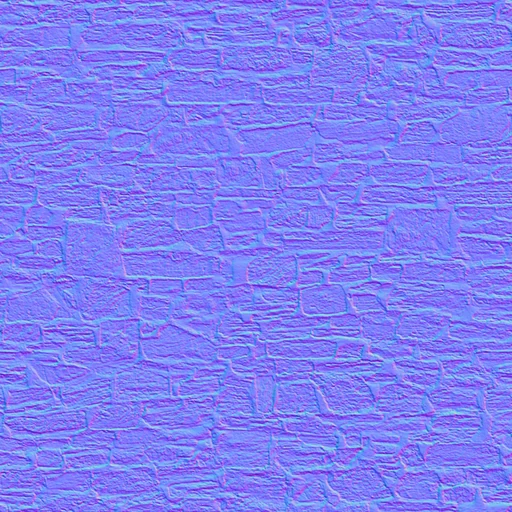
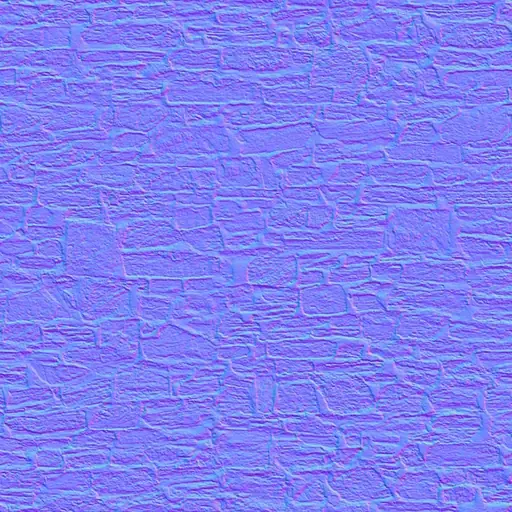
Home page: lighter on phones, bigger tap areas, shorter phone page
- Phones fetch the 600 px age pictures (about 1.5 MB less)
- Mountain, stone and rock textures re-baked smaller (about 650 KB less, same look)
- 3D dragon skipped only on 1 GB phones (plus data saver and reduce motion as before)
- 44 px tap areas on small controls on touch screens, look unchanged
- Phone footer lists fold up; further reading shows four plus "Show all";
  timeline age chips are one swipe row
- Hidden context for generic links; width/height on every image

Claude-Session: https://claude.ai/code/session_01HQpyg8F5StT61j2kcgj5ay

diff --git a/src/v6.css b/src/v6.css
@@ -790,3 +790,43 @@ a.wl-go:focus-visible { outline: none }
 :is(.behind, .mab-tale, .pk-person, .firsts-banner, .place-card).wl-card { transition: box-shadow .25s }
 :is(.behind, .mab-tale, .pk-person, .firsts-banner, .place-card).wl-card:hover { box-shadow: 0 0 0 1px color-mix(in srgb, var(--c, var(--gold)) 55%, transparent) }
 @media print { a.wl, a.wl-go::after { display: none } .wl-card { cursor: auto } }
+
+/* ---------- Bigger touch targets on touch screens (November 2026) ----------
+   Small controls get an invisible tap area of at least 44 x 44 px (an empty ::before centred on them), so they look the same
+   but are easy to hit with a thumb. The EN/CY pair only grows outwards, so neither steals taps from the other. */
+@media (pointer: coarse) {
+  :is(.lang a, .menu-btn, .search-btn, .journey-chip, .chip, .hear, .wotd-nav button, #dec-samples button, .marquee a, .n-all, .wotd-more, .site-foot .fcol summary) { position: relative }
+  :is(.menu-btn, .search-btn, .journey-chip, .chip, .hear, .wotd-nav button, #dec-samples button, .marquee a, .n-all, .wotd-more)::before { content: ""; position: absolute; left: 50%; top: 50%; width: max(100%, 44px); height: max(100%, 44px); transform: translate(-50%, -50%) }
+  .lang a::before { content: ""; position: absolute; top: 50%; width: 44px; height: 44px; transform: translateY(-50%) }
+  .lang a:first-child::before { right: 0 }
+  .lang a:last-child::before { left: 0 }
+  /* scrolling chip rows would clip the taller tap areas, so they get room above and below (taken back with a negative margin) */
+  #tl-teaser, #people .chips { padding-block: 7px; margin-block: -7px }
+}
+
+/* ---------- A shorter home page on phones (November 2026) ---------- */
+@media (max-width: 700px) {
+  /* the timeline's nine age chips: one row to swipe, like the people filters, instead of ten stacked rows */
+  #tl-teaser { flex-wrap: nowrap; overflow-x: auto; scrollbar-width: none; max-width: 100%; -webkit-mask-image: linear-gradient(90deg, #000 88%, transparent); mask-image: linear-gradient(90deg, #000 88%, transparent) }
+  #tl-teaser::-webkit-scrollbar { display: none }
+  #tl-teaser .chip { flex: none }
+  /* further reading: the first four books and four websites, and a button for the rest (site.js adds it) */
+  html.js .clip-list:not(.open) > li:nth-child(n+5) { display: none }
+}
+.clip-more { display: none }
+@media (max-width: 700px) { html.js .clip-more { display: inline-flex; margin-top: .8rem } html.js .clip-list.open + .clip-more { display: none } }
+
+/* the footer lists are <details>: always open on wide screens; on phones site.js closes them into four tappable headings */
+.site-foot .fcol summary { list-style: none; cursor: default }
+.site-foot .fcol summary::-webkit-details-marker { display: none }
+@media (min-width: 701px) { .site-foot .fcol summary { pointer-events: none } }
+@media (max-width: 700px) {
+  .foot-cols { grid-template-columns: 1fr; gap: 0 }
+  .site-foot .fcol { border-top: 1px solid var(--line) }
+  .site-foot .fcol:last-child { border-bottom: 1px solid var(--line) }
+  .site-foot .fcol summary { cursor: pointer; display: flex; justify-content: space-between; align-items: center; min-height: 48px; color: var(--ink) }
+  .site-foot .fcol summary::after { content: "+"; font: 400 1.3rem/1 var(--f-body); color: var(--muted); transition: transform .2s }
+  .site-foot .fcol[open] summary::after { transform: rotate(45deg) }
+  .site-foot .fcol ul { margin: 0 0 1rem; grid-template-columns: 1fr 1fr; gap: .2rem 1rem }
+  .site-foot .fcol ul a { display: block; padding-block: .45rem }
+}

diff --git a/src/app.js b/src/app.js
@@ -324,7 +324,10 @@
     /* load the lifelike 3D dragon where the device can draw it; otherwise the flag dragon stays */
     try {
       var tc = document.createElement("canvas"), gl3 = window.WebGLRenderingContext && (tc.getContext("webgl2") || tc.getContext("webgl"));
-      if (gl3 && !(navigator.connection && navigator.connection.saveData)) {
+      /* skipped on data saver and on very old phones with 1 GB of memory or less (Ifan, 13 Nov 2026: keep it on every modern phone).
+         deviceMemory is only reported by Chrome-based browsers; Safari never reports it, so iPhones always get the dragon. */
+      var lowMem = navigator.deviceMemory && navigator.deviceMemory <= 1;
+      if (gl3 && !lowMem && !(navigator.connection && navigator.connection.saveData)) {
         window.HCD3_WANT = window.HCL3_WANT = 1;
         var c3 = document.createElement("canvas"); c3.id = "sky3d"; c3.setAttribute("aria-hidden", "true"); cv.after(c3);
         var cl = document.createElement("canvas"); cl.id = "land3d"; cl.setAttribute("aria-hidden", "true"); cv.after(cl);
@@ -769,7 +772,7 @@
     var more = $("#people-more"); more.hidden = P_PAGE || pEra !== "all" || pField !== "all"; more.textContent = pAll ? T("Show fewer", "Dangos llai") : T("Show all " + PEOPLE.length + " people", "Dangos pob un o’r " + PEOPLE.length);
     $("#people-grid").innerHTML = list.map(function (p) {
       var name = T(p[3], p[4]), other = lang === "en" ? p[4] : p[3], link = "person-" + p[0] + ".html", ph = D.PPH[p[0]];
-      return '<article class="plaque wl-card" data-era="' + p[1] + '"><div class="top-row"><span class="ava" aria-hidden="true">' + initials(p[3]) + (ph ? '<img src="' + ph + '" alt="" loading="lazy" referrerpolicy="no-referrer" onerror="this.remove()">' : "") + '</span><div><span class="dates">' + esc(p[2]) + "</span><h3>" + esc(name) + '</h3></div></div><span class="epi">' + esc(T(p[5], p[6])) + (other !== name ? " · " + esc(other) : "") + "</span>" + ((D.PFIRST || {})[p[0]] ? '<span class="first-tag">★ ' + esc(T(D.PFIRST[p[0]][1], D.PFIRST[p[0]][2])) + "</span>" : "") + "<p>" + esc(T(p[7], p[8])) + '</p><a class="wl" href="' + link + '">' + esc(name) + "</a></article>";
+      return '<article class="plaque wl-card" data-era="' + p[1] + '"><div class="top-row"><span class="ava" aria-hidden="true">' + initials(p[3]) + (ph ? '<img src="' + ph + '" alt="" width="96" height="96" loading="lazy" referrerpolicy="no-referrer" onerror="this.remove()">' : "") + '</span><div><span class="dates">' + esc(p[2]) + "</span><h3>" + esc(name) + '</h3></div></div><span class="epi">' + esc(T(p[5], p[6])) + (other !== name ? " · " + esc(other) : "") + "</span>" + ((D.PFIRST || {})[p[0]] ? '<span class="first-tag">★ ' + esc(T(D.PFIRST[p[0]][1], D.PFIRST[p[0]][2])) + "</span>" : "") + "<p>" + esc(T(p[7], p[8])) + '</p><a class="wl" href="' + link + '">' + esc(name) + "</a></article>";
     }).join("");
   }
   $("#people-more").onclick = function () { pAll = !pAll; renderPeople(); if (!pAll) goTo($("#people")); };

diff --git a/src/body.html b/src/body.html
@@ -44,7 +44,7 @@
       <div class="b-fact rv">
         <p class="eyebrow" data-cy="Wyddech chi?">Did you know?</p>
         <p class="fact" id="fact" aria-live="polite">__FACT__</p>
-        <p class="fact-actions"><a class="chip solid" id="fact-more" href="__FACTHREF__"><span data-cy="Darllen yr hanes llawn">Read the full story</span> →</a>
+        <p class="fact-actions"><a class="chip solid" id="fact-more" href="__FACTHREF__" aria-describedby="fact"><span data-cy="Darllen yr hanes llawn">Read the full story</span> →</a>
         <button type="button" class="chip" id="fact-next"><span data-cy="Un arall">Another</span> ↻</button></p>
       </div>
     </div>
@@ -161,8 +161,8 @@
       <p data-cy="Mae pob digwyddiad, lle a pherson ar y wefan hon yn cysylltu â ffynhonnell. Dyma’r llyfrau a’r casgliadau gorau i fynd ymhellach.">Every event, place and person on this site links to a source. These are the best books and collections for going further.</p>
     </div>
     <div class="reading">
-      <div><p class="eyebrow" style="margin-bottom:.5rem" data-cy="Llyfrau">Books</p><ul id="read-books">__BOOKS__</ul></div>
-      <div><p class="eyebrow" style="margin-bottom:.5rem" data-cy="Ar-lein">Online</p><ul id="read-online">__ONLINE__</ul></div>
+      <div><p class="eyebrow" style="margin-bottom:.5rem" data-cy="Llyfrau">Books</p><ul id="read-books" class="clip-list">__BOOKS__</ul></div>
+      <div><p class="eyebrow" style="margin-bottom:.5rem" data-cy="Ar-lein">Online</p><ul id="read-online" class="clip-list">__ONLINE__</ul></div>
     </div>
     <p style="margin-top:1.5rem"><a class="btn solid" href="books-and-authors.html" data-cy="Pob un o’r llyfrau a’u hawduron, fesul cyfnod →">Every book and its author, period by period →</a></p>
     <p class="note-box" style="margin-top:2rem" data-cy="Mae’r dolenni i ddigwyddiadau unigol yn mynd i Wicipedia, sydd yn ei dro yn rhestru ffynonellau academaidd. Dyddiadau bras yw’r rhai a nodir ‘c.’ (circa). Map yn seiliedig ar ffiniau awdurdodau lleol; mae’r map teyrnasoedd yn fras.">Links on individual events go to Wikipedia, which in turn lists academic sources. Dates marked c. (circa) are approximate. The map is drawn from local authority boundaries, and the kingdoms map is an approximation.</p>

diff --git a/src/static/site.js b/src/static/site.js
@@ -329,3 +329,21 @@
     });
   });
 })();
+
+/* ---------- shorter pages on phones (November 2026) ----------
+   The footer lists are <details>, open in the HTML; on phones they start closed, so the footer is four headings to tap.
+   Long lists marked .clip-list show their first four items on phones, with a button for the rest (CSS in src/v6.css). */
+(function () {
+  var d = document, phone = window.matchMedia && matchMedia("(max-width: 700px)").matches;
+  Array.prototype.forEach.call(d.querySelectorAll(".site-foot details.fcol"), function (el) {
+    if (phone) el.open = false;
+    else el.addEventListener("toggle", function () { if (!el.open && !matchMedia("(max-width: 700px)").matches) el.open = true; });
+  });
+  Array.prototype.forEach.call(d.querySelectorAll(".clip-list"), function (ul) {
+    var n = ul.children.length; if (n <= 4) return;
+    var b = d.createElement("button"); b.type = "button"; b.className = "btn clip-more";
+    b.textContent = d.documentElement.classList.contains("cy") ? "Dangos y cyfan (" + n + ")" : "Show all " + n;
+    b.addEventListener("click", function () { ul.classList.add("open"); var f = ul.children[4] && ul.children[4].querySelector("a"); if (f) f.focus({ preventScroll: true }); });
+    ul.after(b);
+  });
+})();

diff --git a/src/welsh.js b/src/welsh.js
@@ -81,7 +81,7 @@
   }
   function card(back) {
     var x = dayOf(back), w = W[x.i];
-    var more = w[8] ? '<a class="wotd-more" href="' + esc(w[8]) + '">' + bi("Read the history", "Darllen yr hanes") + " →</a>" : "";
+    var more = w[8] ? '<a class="wotd-more" href="' + esc(w[8]) + '">' + bi("Read the history<span class=\"vh\"> behind the word " + esc(w[1]) + "</span>", "Darllen yr hanes<span class=\"vh\"> y tu ôl i’r gair " + esc(w[1]) + "</span>") + " →</a>" : "";
     return '<div class="wotd-top"><p class="eyebrow"><b>' + bi("Word of the day", "Gair y dydd") + "</b> · " + dateLabel(x.d, back) + "</p>"
       + '<div class="wotd-nav"><button type="button" data-wotd-go="1"' + (back >= 6 ? " disabled" : "") + ' aria-label="' + esc("Previous day / Diwrnod blaenorol") + '">‹</button>'
       + '<button type="button" data-wotd-go="-1"' + (back <= 0 ? " disabled" : "") + ' aria-label="' + esc("Next day / Diwrnod nesaf") + '">›</button></div></div>'

diff --git a/build.py b/build.py
@@ -415,9 +415,11 @@ COPYRIGHT_OWNER_CY = "Hanes Cymru"
 
 def footer():
     def col(title_en, title_cy, links):
-        return f'<div><p class="eyebrow">{bi(title_en, title_cy)}</p><ul>' + "".join(f'<li><a href="{h}">{bi(a, b)}</a></li>' for h, a, b in links) + "</ul></div>"
-    eras_col = (f'<div><p class="eyebrow">{bi("The nine ages", "Y naw oes")}</p><ul>' + "".join(
-        f'<li><a href="era-{x["id"]}.html">{bi(x["en"], x["cy"])} <span class="m-dates">{bi(x["spanEn"], x["spanCy"])}</span></a></li>' for x in D.ERAS) + "</ul></div>")
+        return f'<details class="fcol" open><summary class="eyebrow">{bi(title_en, title_cy)}</summary><ul>' + "".join(f'<li><a href="{h}">{bi(a, b)}</a></li>' for h, a, b in links) + "</ul></details>"
+    # Each list is a <details>, open in the HTML so every link shows on wide screens and without JavaScript.
+    # On phones site.js closes them, so the footer is four tappable headings instead of 1,600 px of links.
+    eras_col = (f'<details class="fcol" open><summary class="eyebrow">{bi("The nine ages", "Y naw oes")}</summary><ul>' + "".join(
+        f'<li><a href="era-{x["id"]}.html">{bi(x["en"], x["cy"])} <span class="m-dates">{bi(x["spanEn"], x["spanCy"])}</span></a></li>' for x in D.ERAS) + "</ul></details>")
     explore = [("timeline.html", "Timeline", "Llinell amser"), ("map.html", "Map of Wales", "Map Cymru"), ("people.html", "People", "Pobl"), ("firsts.html", "Welsh world firsts", "Cymru oedd y cyntaf"), ("kings.html", "Kings and princes", "Brenhinoedd a thywysogion"), ("family-trees.html", "Royal family trees", "Coed teulu brenhinol"), ("saints.html", "Saints of Wales", "Seintiau Cymru"), ("castles.html", "Castles of Wales", "Cestyll Cymru"), ("trails.html", "Themed trails", "Llwybrau thema"),
                ("gallery.html", "Photo gallery", "Oriel luniau"), ("onthisday.html", "On this day", "Ar y dydd hwn"), ("index.html#language", "The Welsh language", "Yr iaith Gymraeg"), ("welsh.html", "Learn Welsh", "Dysgu Cymraeg")]
     read = [("whatsnew.html", "What’s new", "Beth sy’n newydd"), ("stories.html", "Long reads", "Erthyglau"), ("legends.html", "Legends", "Chwedlau"), ("mabinogion.html", "The Mabinogion", "Y Mabinogion"), ("laws.html", "The Laws of Hywel Dda", "Cyfreithiau Hywel Dda"), ("literature.html", "Welsh literature", "Llenyddiaeth Gymraeg"), ("books.html", "The great books of Wales", "Llyfrau mawr Cymru"), ("triads.html", "The Welsh Triads", "Trioedd Ynys Prydain"), ("symbols.html", "Symbols and traditions", "Symbolau a thraddodiadau"),
@@ -2816,7 +2818,7 @@ def family_trees_page():
                 main, era="kings", ld=ld, og_type="website", active="kings.html", track="kings:trees", extra=FT_JS)
 
 # ---------- Welsh word of the day and beginner's phrases (src/cymraeg.py, src/welsh.js) ----------
-WELSH_JS_VER = 1
+WELSH_JS_VER = 2  # raise whenever src/welsh.js changes, so browsers fetch the new copy
 AUDIO_DIR = os.path.join(SRC, "static", "audio")
 AUDIO_FILES = sorted(f[:-4] for f in os.listdir(AUDIO_DIR) if f.endswith(".mp3")) if os.path.isdir(AUDIO_DIR) else []
 LL_CREDITS = json.loads(read("audio_credits.json")) if os.path.exists(os.path.join(SRC, "audio_credits.json")) else {}
@@ -3241,7 +3243,7 @@ def ssr_person(p):
     ph = DATA["PPH"].get(slug)
     first = P2.FIRSTS.get(slug)
     return (f'<article class="plaque wl-card" data-era="{p[1]}"><div class="top-row"><span class="ava" aria-hidden="true">{e(_initials(p[3]))}'
-            + (f'<img src="{e(ph)}" alt="" loading="lazy" referrerpolicy="no-referrer" onerror="this.remove()">' if ph else "")
+            + (f'<img src="{e(ph)}" alt="" width="96" height="96" loading="lazy" referrerpolicy="no-referrer" onerror="this.remove()">' if ph else "")
             + f'</span><div><span class="dates">{bi(p[2], date_cy(p[2]))}</span><h3>{bi(p[3], p[4])}</h3></div></div>'
             f'<span class="epi">{bi(p[5], p[6])}{(" · " + e(other)) if other else ""}</span>'
             + (f'<span class="first-tag">★ {bi(first[1], first[2])}</span>' if first else "")
@@ -3449,8 +3451,12 @@ ERA_Q = {
     "today": ("What has Wales done with a parliament of its own?", "Beth y mae Cymru wedi’i wneud â’i senedd ei hun?"),
 }
 assert set(ERA_Q) == {x["id"] for x in D.ERAS}, "every age needs a question in ERA_Q"
+# On phones the nine age cards are thin strips with the picture behind a dark veil, so the 600 px picture is plenty.
+# "200px" makes even a 3x phone screen (200 x 3 = 600) fetch it;
+# without it phones fetched the 1400 px pictures, about 1.5 MB for the nine. Wide screens still use 40vw.
+POSTER_SIZES = "(max-width: 700px) 200px, 40vw"
 AGES_HTML = "".join(
-    f'<a class="poster" href="era-{x["id"]}.html" data-era="{x["id"]}">{PX.card_img(f"era-{x['id']}.html") or A.scene(ERA_ART[x["id"]], COL[x["id"]])}<span class="shade"></span><span class="rn"><span class="vh">{bi("Age", "Oes")} </span>{ROMAN[i]}<span class="vh">: </span></span>'
+    f'<a class="poster" href="era-{x["id"]}.html" data-era="{x["id"]}">{PX.card_img(f"era-{x['id']}.html", sizes=POSTER_SIZES) or A.scene(ERA_ART[x["id"]], COL[x["id"]])}<span class="shade"></span><span class="rn"><span class="vh">{bi("Age", "Oes")} </span>{ROMAN[i]}<span class="vh">: </span></span>'
     f'<span class="txt"><span class="span">{bi(x["spanEn"], x["spanCy"])}</span><h3>{bi(x["en"], x["cy"])}</h3><span class="q">{bi(*ERA_Q[x["id"]])}</span><p>{bi(x["blurbEn"], x["blurbCy"])}</p></span></a>'
     for i, x in enumerate(D.ERAS))
 MARQ = [("Castles", "Cestyll", "story-castles.html"), ("Poets", "Beirdd", "person-dafydd-ap-gwilym.html"), ("Saints", "Seintiau", "saints.html"),

diff --git a/tools/bake_eryri.py b/tools/bake_eryri.py
@@ -71,7 +71,7 @@ det -= gul * (5 + 24 * ss(slope, 0.12, 0.5))
 det = np.where(water, base, det)
 
 gy, gx = np.gradient(det * VE, cell); l = 1 / np.sqrt(gx * gx + gy * gy + 1); nx, ny, nz = -gx * l, l, -gy * l
-Image.fromarray((np.stack([nx * .5 + .5, ny * .5 + .5, nz * .5 + .5], -1) * 255).clip(0, 255).astype(np.uint8)).save(out + '/eryri-n.webp', quality=84)
+Image.fromarray((np.stack([nx * .5 + .5, ny * .5 + .5, nz * .5 + .5], -1) * 255).clip(0, 255).astype(np.uint8)).save(out + '/eryri-n.webp', quality=70, method=6)  # 70 and method 6 (Nov 2026): 40% lighter, no visible change in side-by-side shots
 sl = 1 - ny  # fine slope: 0 flat, 1 vertical
 
 # ---- shadows cast by the ridges, from where the moon stands
@@ -108,7 +108,7 @@ col = lerp(col, np.array([0.80, 0.85, 0.93]), sn)
 col *= (ao * (0.93 + 0.14 * f3 * (1 - sn)))[..., None]
 col *= (0.32 + 0.68 * lit)[..., None] * np.where(lit[..., None] < 1, lerp(np.ones(3), np.array([0.82, 0.9, 1.12]), 1 - lit), 1)   # shadow is bluer
 col = np.where(water[..., None], np.array([0.01, 0.018, 0.035]), col)
-Image.fromarray((np.clip(col, 0, 1) ** (1 / 2.2) * 255).astype(np.uint8)).save(out + '/eryri-c.webp', quality=82)
+Image.fromarray((np.clip(col, 0, 1) ** (1 / 2.2) * 255).astype(np.uint8)).save(out + '/eryri-c.webp', quality=74, method=6)  # 74 and method 6 (Nov 2026): a third lighter, no visible change
 
 rough = np.where(water, 0.12, 0.96 - 0.3 * sn)
 hm = resize(blur(det, 2.0), M, Image.BILINEAR)

diff --git a/src/art.py b/src/art.py
@@ -1,7 +1,7 @@
 # Original scene illustrations, drawn in code as SVG. Each scene is a night landscape in the
 # site's own style (sky, moon, rolling ridges) with one paper-cut motif in the foreground.
 # scene(kind, colour) returns an <svg> string that fills its container.
-import math
+import math, os
 import random, zlib
 
 W, H = 800, 500
@@ -306,8 +306,22 @@ def photo_scene(kind, small=False):
     ph = LEGEND_PHOTOS.get(kind)
     if not ph:
         return None
-    return (f'<img class="scene photo" src="legends/{kind}{"-s" if small else ""}.webp" alt="" decoding="async"{" loading=lazy" if small else ""} '
+    f = f'legends/{kind}{"-s" if small else ""}.webp'
+    w, h = _photo_size(f)
+    return (f'<img class="scene photo" src="{f}" width="{w}" height="{h}" alt="" decoding="async"{" loading=lazy" if small else ""} '
             f'style="object-fit:cover;object-position:{ph[6]}">')
+
+
+_SIZES = {}
+
+
+def _photo_size(rel):
+    """Width and height of a picture in src/static, so the page can keep its space before it loads."""
+    if rel not in _SIZES:
+        from PIL import Image
+        with Image.open(os.path.join(os.path.dirname(os.path.abspath(__file__)), "static", rel)) as im:
+            _SIZES[rel] = im.size
+    return _SIZES[rel]
 
 
 def scene(kind, colour, seed=None):

diff --git a/src/pictures.py b/src/pictures.py
@@ -474,13 +474,14 @@ def hero_img(ref):
             f'width="{p["w"]}" height="{p["h"]}" alt="" decoding="async" fetchpriority="high" style="object-fit:cover;object-position:{p["pos"]}">')
 
 
-def card_img(path, era=None):
-    """The picture for a card that links to a page (a long read, a legend, an age), or None."""
+def card_img(path, era=None, sizes="(max-width: 700px) 100vw, 40vw"):
+    """The picture for a card that links to a page (a long read, a legend, an age), or None.
+    sizes tells the browser how wide the card is drawn, so phones fetch the 600 px picture when that is enough."""
     ref = for_page(path, era)
     if not ref:
         return None
     p = _parse(ref)
-    return (f'<img class="scene photo" src="{p["small"]}" srcset="{p["small"]} 600w, {p["src"]} {p["w"]}w" sizes="(max-width: 700px) 100vw, 40vw" '
+    return (f'<img class="scene photo" src="{p["small"]}" srcset="{p["small"]} 600w, {p["src"]} {p["w"]}w" sizes="{sizes}" '
             f'width="{p["w"]}" height="{p["h"]}" alt="" loading="lazy" decoding="async" style="object-fit:cover;object-position:{p["pos"]}">')
 
 

diff --git a/tools/bake_textures.py b/tools/bake_textures.py
@@ -8,7 +8,7 @@ def nrm(im,strength):
     return Image.fromarray((n*255).astype(np.uint8))
 for name,f,size,st in (('stone','castle_wall_slates_diff.jpg',1024,5.0),('rock','aerial_rocks_02_diff.jpg',512,4.0)):
     im=Image.open(f'{src}/{f}').convert('RGB').resize((size,size),Image.LANCZOS)
-    im.save(f'{out}/{name}.webp',quality=82); nrm(im,st).save(f'{out}/{name}-n.webp',quality=82)
+    im.save(f'{out}/{name}.webp',quality=74,method=6); nrm(im,st).save(f'{out}/{name}-n.webp',quality=74,method=6)  # 74, method 6 (Nov 2026): a quarter lighter, same look
 # fine grain for the mountain slopes: the rock photograph in grey, evened out so that its average is mid-grey
 g=np.asarray(Image.open(f'{src}/aerial_rocks_02_diff.jpg').convert('L').resize((512,512),Image.LANCZOS)).astype(np.float64)
 g=np.clip(127.5+(g-g.mean())/g.std()*46,0,255).astype(np.uint8); Image.fromarray(np.stack([g,g,g],-1)).save(f'{out}/detail.webp',quality=80)

diff --git a/SKILLS.md b/SKILLS.md
@@ -447,7 +447,7 @@ The dragon that flies across the opening screen is a real 3D model with a skelet
 - `src/static/dragon.glb` is the model: one mesh, its textures and one "flying" animation of 13 seconds. It came from the Ethereal Engine "Open Asset Kit, Basic" (`assets/fantasy/Dragon.glb`), which says its assets are Creative Commons but names no author. See the credit in README.md and the open question in TODO.md. The original is 35 MB; it was cut to 1.7 MB by keeping only the flying animation, shrinking the textures to 1024 pixels as WebP and converting the material (gltf-transform: `metalRough`, `resample`, `prune`, `textureCompress`, `quantize`).
 - `tools/dragon3d.src.js` is the code that loads and lights the model. It is bundled with three.js and the landscape code into `src/static/hero3d.js` (see "The 3D mountains and castle" for how to rebuild).
 - `src/app.js` still decides where the dragon is, how big, and when it breathes fire (`drawDragon()`), and hands that to `HCD3.frame()` each frame. `flames()` paints the fire on a small canvas of its own, which is handed over with the rest and shown as a glowing sheet at the dragon's mouth, so that the fire shows in front of the mountains.
-- The 3D files load only on the home page, after the page itself, and only when the device has WebGL, is not in data-saver mode and has not asked for reduced motion. Otherwise, or if loading fails or takes over 15 seconds, the flag dragon is shown.
+- The 3D files load only on the home page, after the page itself, and only when the device has WebGL, is not in data-saver mode and has not asked for reduced motion, and is not a very old phone with 1 GB of memory or less (`navigator.deviceMemory`, which only Chrome-based browsers report, so iPhones always get it). Ifan wants the dragon on every modern phone and not held back until the page is idle (13 November 2026). Otherwise, or if loading fails or takes over 15 seconds, the flag dragon is shown.
 - To watch the fire without waiting, add `?fire=1` to the address (it works with `?sky=night` and the others).
 - To test with a headless browser, start Chromium with `--use-gl=swiftshader --enable-unsafe-swiftshader`; without WebGL you will only see the stand-in.
 
@@ -485,6 +485,9 @@ Behind the dragon, the mountains, the moor and the castle are real 3D too, drawn
 - **The height map is a lossless WebP** (`eryri-h.webp`). Red and green hold the height, blue the roughness. It must be lossless, or the mountain changes shape. Never zero a channel to save bytes: the shot changes.
 - **The 3D starts loading after the page has loaded** (`go3` in `src/app.js`), so the words and pictures come first on a slow connection.
 - To check nothing changed, screenshot the old and the new site side by side at `?sky=night` after 9 seconds and compare the mountain area pixel by pixel with Pillow's `ImageChops.difference`: two runs of the same site differ by about 0.05, a real change by 1 or more. Then run `node tools/hero_jump_check.js` (it must log one land position).
+- **Lighter scene pictures (13 November 2026).** `tools/bake_eryri.py` saves the mountain colour at WebP quality 74 and the relief at 70, both with `method=6` (the slowest, smallest encoder setting); `tools/bake_textures.py` saves the stone and rock at 74, `method=6`. Together about 650 KB lighter, and side-by-side shots of the mountain and castle show no difference. The bake is exact: re-running `tools/eryri_heights.py` then `tools/bake_eryri.py` with the old settings gave byte-identical files, so start from the bake, never from re-saving a WebP. The height map stays lossless.
+- **Phones fetch the 600 px age pictures.** The nine age cards are thin strips under a dark veil on phones, but `sizes="(max-width: 700px) 100vw"` made a 2.6x phone fetch the 1400 px pictures, about 1.5 MB. `card_img()` in `src/pictures.py` takes a `sizes`; the age cards pass `POSTER_SIZES` in `build.py`. Measure with a Pixel 7 window: list every response by size and look for `-s.webp` against the big ones.
+- Result on 13 November 2026 (Pixel 7, gzip as GitHub Pages sends it): phone 4.1 MB down to 2.5 MB, desktop 3.4 MB down to 2.8 MB.
 
 ## More pages and techniques (November 2026)
 
@@ -770,3 +773,12 @@ Learnt while writing the Tryweryn long read (`src/tryweryn.py`, `story-tryweryn.
 - The Daily challenge card on the home page works out today's event itself (`dailyPick()` in `src/app.js`), with the same pool, seeded shuffle and day number as `src/static/play.js`. If you change how daily.html picks its event, change both, then check that the home card and daily.html show the same event. The card reads the visitor's guesses from `hc-journey` in localStorage and colours the six tiles.
 - Game cards (`play_card()` in `build.py`) take their picture from `PX.card_img()`; a game page with no line in `PAGE` gets its age's picture. On the home page the Daily challenge is left out of the games grid (it has its own card) and the last tile, `.p-all`, leads to play.html. The first card in the grid is the big one.
 
+### Touch targets and a shorter phone home page (November 2026)
+
+- **Tap areas of 44 x 44 px without changing the look.** At the end of `src/v6.css`, under `@media (pointer: coarse)`, small controls (EN/CY, Menu, search, journey ring, chips, Hear it, word-of-the-day arrows, place-name samples, the theme strip, text links like "Everything that is new") get an empty `::before` centred on them, at least 44 px each way. The tap lands on the control though nothing shows. EN and CY only grow outwards (EN to the left, CY to the right), so neither steals the other's taps. A row that scrolls sideways (`#tl-teaser`, the people chips) clips anything taller than itself, so it gets `padding-block: 7px; margin-block: -7px`. Check with `document.elementFromPoint` 21 px above, below, left and right of each control's centre in a Pixel 7 window (`pointer: coarse` is on there).
+- **Footer lists are `<details class="fcol" open>`** (`footer()` in `build.py`). Open in the HTML, so wide screens and browsers without JavaScript see every link; `site.js` closes them on phones (700 px or less), so the footer is four headings with a + to tap. On wide screens the heading cannot be clicked shut.
+- **Long lists on phones: `class="clip-list"`.** Any `<ul class="clip-list">` shows its first four items on phones and `site.js` adds a "Show all N" / "Dangos y cyfan (N)" button after it. Used for the home page Further reading books and websites.
+- **The timeline's nine age chips on the home page** are one row to swipe on phones (`#tl-teaser` in `src/v6.css`), like the people filters.
+- **Hidden words for links that say little on their own:** the word of the day's "Read the history" carries a hidden "behind the word …" (`class="vh"`, in `src/welsh.js`; raise `WELSH_JS_VER` in `build.py` when `welsh.js` changes), and "Read the full story" under Did you know? points at the fact with `aria-describedby="fact"`.
+- **Every `<img>` has a width and height** so the page does not jump as pictures arrive: `photo_scene()` in `src/art.py` reads the legend photo's size from the file; avatar pictures say 96 x 96 (CSS sets the real size).
+- The console error `ERR_TUNNEL_CONNECTION_FAILED` that checkers report is the GoatCounter script (`gc.zgo.at`) being blocked by the checker's own network, not a fault in the site. It loads `async`, so a blocked copy never holds up the page.
